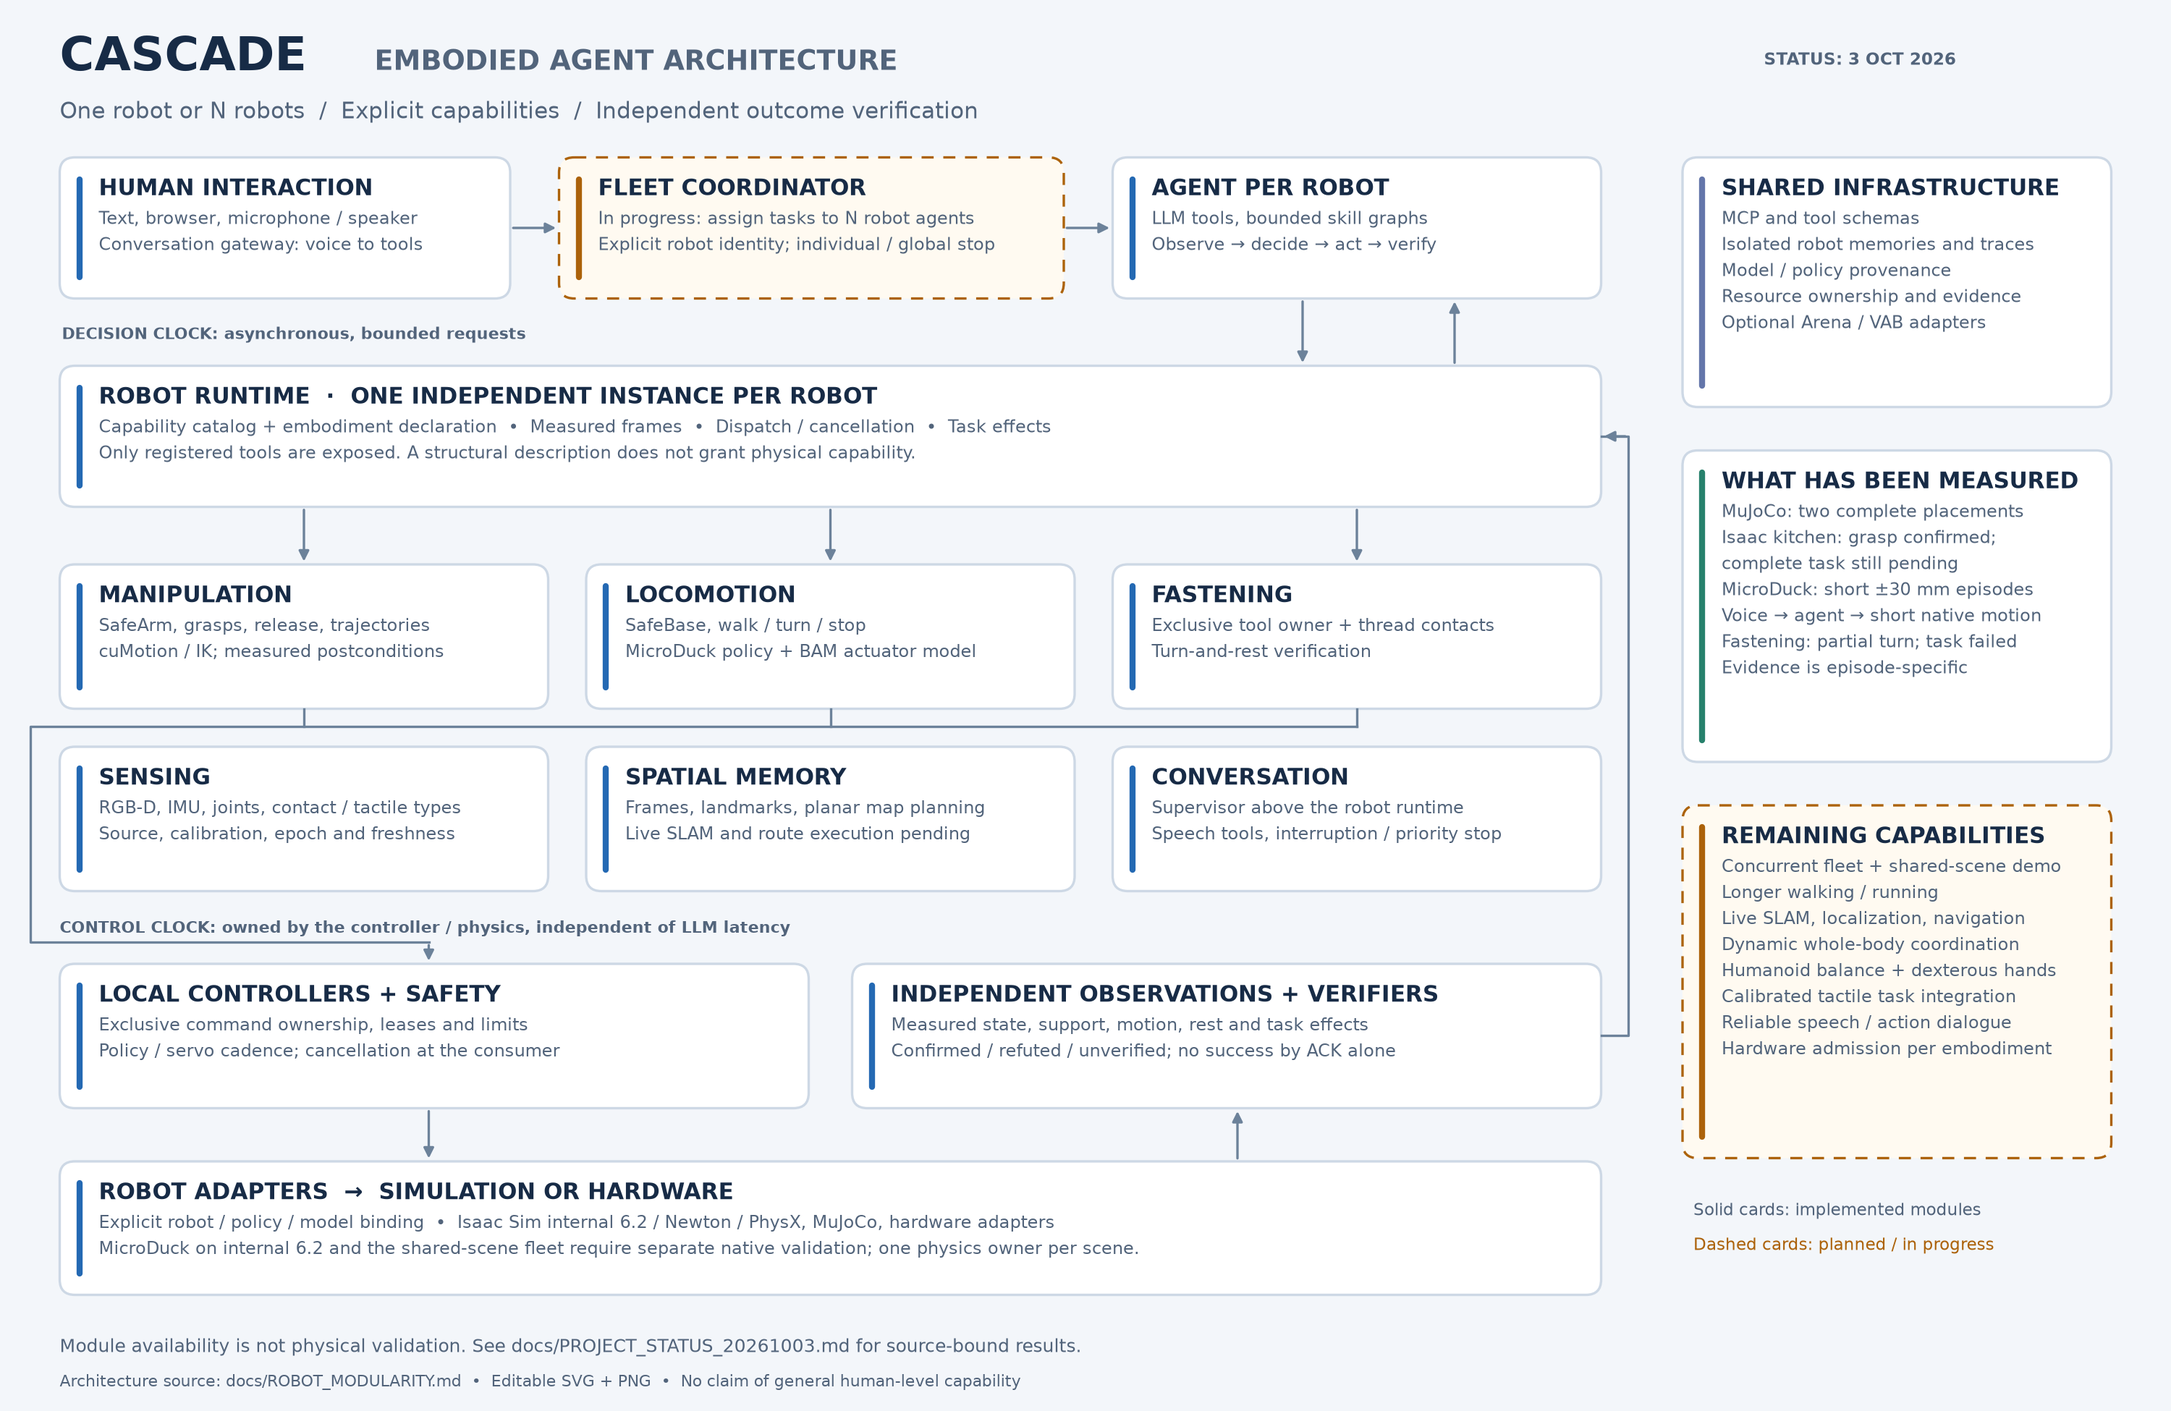
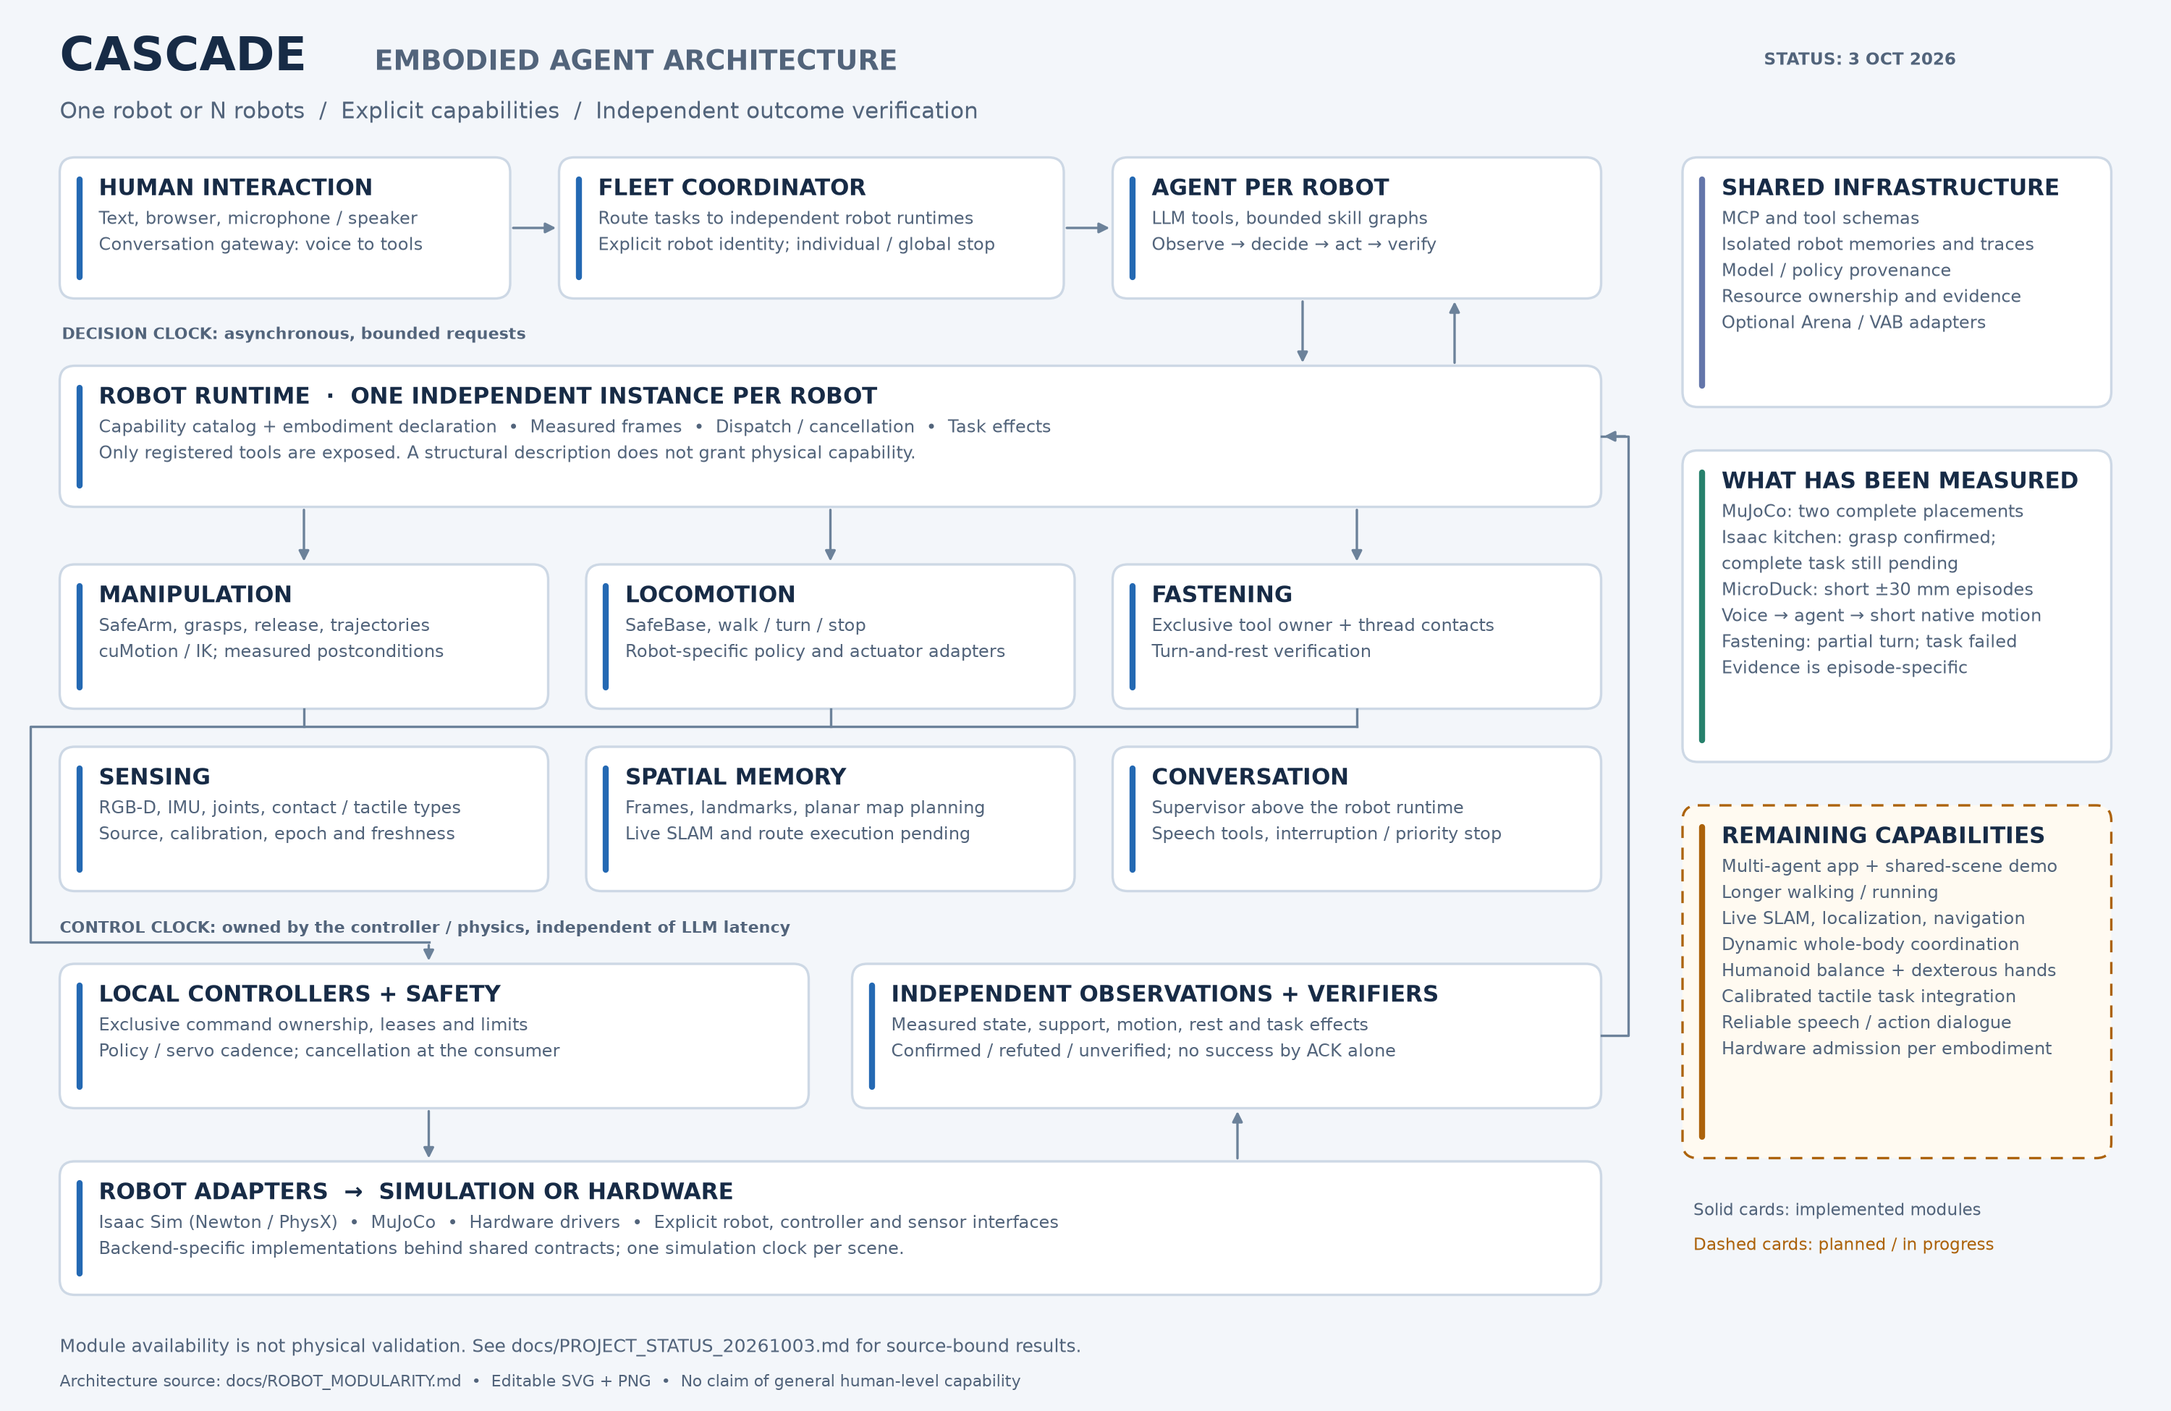
docs: keep robot architecture independent of local builds

Changed region(s): [[0.031, 0.8615, 0.496, 0.8923], [0.248, 0.1231, 0.279, 0.2154], [0.341, 0.1538, 0.372, 0.1846]]

diff --git a/docs/PROJECT_STATUS_20261003.md b/docs/PROJECT_STATUS_20261003.md
@@ -6,8 +6,8 @@ an exact model, source and episode; a declaration, passing software test or
 successful simulator startup does not admit a new robot. This index separates
 implemented capabilities, measured results and remaining work. The architecture
 and [SVG / PNG diagram](ROBOT_MODULARITY.md) now distinguish the existing
-single-robot domains from the concurrent fleet being implemented. Current
-software includes source-release Isaac 6.2 detection in
+single-robot domains from fleet coordination and the pending shared scene. Current
+software includes Isaac Sim source-installation detection in
 [PR #109](https://github.com/johnnynunez/cascade/pull/109); source updates do not
 transfer acceptance from earlier physical episodes. The dated source and CI
 records below remain historical evidence, including
@@ -23,31 +23,31 @@ The [1–2 October index](PROJECT_STATUS_20261001.md) preserves earlier history.
 | Locomotion | Optional measured `walk_distance`, cancellation and independent support/rest checks; historical fresh-start ±30 mm episodes passed. | Published candidate profiles have no new model/support admission. The 0.1 m software ceiling is not measured 0.1 m capability or general gait acceptance. |
 | Sensing and spatial memory | Passive, bounded sensor providers; identity/epoch/age checks; observed calibrated RGB-D and retained pixel-to-surface annotations without constructing an arm. | Independent metric XY/general-3D accuracy, moving-camera calibration and per-AOV synchronization. No physical SLAM or `go_to` execution is admitted. |
 | Speech | Browser/media gateway, real speech-provider path, original-intent deadlines, priority stop and bounded observed-result views. One continuous synthetic-input/native-motion recording exists. | That motion video contains no spoken robot reply. General dialogue/action reliability, microphone/speaker hardware and public hosted service remain unvalidated. |
-| Fleet coordination | Named mobile bases and reusable per-robot runtimes exist; concurrent fleet composition is in progress. | Multiple registered bases currently share one active-operation gate. No shared-scene 12-MicroDuck demo has run. |
+| Fleet coordination | Concurrent `FleetRuntime` routes tasks to independent robot runtimes with separate ownership and stop state. | The multi-agent application and native shared scene remain in progress. No shared-scene 12-MicroDuck demo has run. |
 | Structure and whole-body control | Typed embodiment and passive generalized-joint observations; domains expose only registered resources/tools. | Mixed physical mobile manipulation is refused. No admitted humanoid balance, dexterous-hand or generic whole-body controller. |
 | Evaluation | Source-bound VAB and Arena integration/cancellation preflights ran real simulation. | Neither is a completed benchmark task or a predictor of general deployment success. |
 
 
-## Internal Isaac and current follow-up
+## Isaac Sim validation and current follow-up
 
-New local validation uses the internal Isaac source build
-`6.2.0-alpha.19+develop.0.48b2d951.local`, rebuilt after the daily fast-forward
-update. Its eight native Newton substep/graph tests passed. The actual embedded
-Python also passes CASCADE's source-installation check after #109; the managed
-Spark wheel remains pinned to 6.1.0.0. These checks do not validate a kitchen task
-or a MicroDuck policy on the new SDK.
+The selected Isaac Sim installation passed eight native Newton substep/graph
+tests and CASCADE's source-installation check after #109. Deployment
+configuration selects the concrete dependencies; these checks do not validate
+a kitchen task or a MicroDuck policy on that installation.
 
 The first kitchen attempt stopped at the old 6.1-only metadata gate. The second
 passed that gate but blocked in remote asset discovery for an empty YCB list;
 it was cancelled through its owned supervisor before a robot tool action.
 [PR #110](https://github.com/johnnynunez/cascade/pull/110) removes the unused
 lookup and dead object-spawning block without changing the locally authored
-scene. A fresh native retry is pending. The post-release joint-stability fix
-in [PR #107](https://github.com/johnnynunez/cascade/pull/107) also awaits that retry.
+scene. The subsequent native retry confirmed grasp but reached the unchanged
+300-second deadline during release/retreat. Complete placement, rest and home
+remain unverified, including the post-release joint-stability behavior from
+[PR #107](https://github.com/johnnynunez/cascade/pull/107).
 
-MicroDuck's BAM, support extraction and graph guards bind an earlier Newton
-recipe. The internal 1.6.1rc1 recipe needs explicit compatibility checks and a
-single-robot native episode before shared-scene fleet validation. No model or
+MicroDuck's BAM, support extraction and graph guards bind an explicit Newton
+configuration. Compatibility checks are implemented; a single-robot native
+episode is still required before shared-scene fleet validation. No model or
 source hash is automatically treated as physically admitted.
 
 ## Published software corrections

diff --git a/docs/ROBOT_MODULARITY.md b/docs/ROBOT_MODULARITY.md
@@ -18,6 +18,12 @@ domains actually implement. Perception, locomotion, manipulation and tactile
 measurements can therefore evolve independently while retaining the existing
 runtime, MCP, traces and memory.
 
+The architecture is independent of a robot model or simulator release. Isaac
+Sim, MuJoCo and hardware drivers implement backend-specific adapters behind
+shared contracts. MicroDuck is one embodiment; its policy and actuator model
+do not define locomotion for every robot. Dependency versions and build
+identities belong to deployment configuration and validation records.
+
 [Architecture image (SVG)](assets/architecture.svg) · [PNG](assets/architecture.png)
 
 ```mermaid
@@ -27,8 +33,8 @@ flowchart TD
   Graph[Bounded skill graph] --> Runtime
   MCP --> Runtime[RobotRuntime: one robot's dispatch and cancellation]
   Conversation --> Runtime
-  MCP -. proposed multi-robot routing .-> Fleet[Fleet coordinator: pending]
-  Fleet -. independent robot runtimes .-> Runtime
+  MCP --> Fleet[FleetRuntime: multi-robot routing]
+  Fleet --> Runtime
   Structure[Embodiment declaration and resource catalog] --> Runtime
   Runtime --> Arm[Manipulation]
   Runtime --> Base[Locomotion]
@@ -50,8 +56,8 @@ flowchart TD
 ```
 
 Solid arrows describe existing interfaces, not admission of every combination.
-The fleet layer is proposed; the native MicroDuck bridge currently owns one
-robot. Twelve independent agents require isolated runtime contexts above a
+The fleet runtime routes concurrent tasks to isolated robot runtimes; the
+native MicroDuck bridge currently owns one robot. Twelve native agents need a
 shared scene owner: read one physical step, evaluate each robot's policy/BAM,
 perform one scene solve, then publish observations bound to each robot. Calling
 twelve current steppers would advance the shared scene twelve times. Per-robot
@@ -69,7 +75,7 @@ There is no measured twelve-robot episode or real-time performance guarantee.
 | `control/microduck_policy.py`, `sim/microduck_stepper.py` | Pinned ONNX contract and physics-clock policy application | Robot-specific implementation; no generic humanoid policy loader or second writer to head joints |
 | `robotics/graph.py` | Immutable bounded DAG of registered skills, outcome and data edges | No graph-generated code, online self-editing or automatic stop reset |
 | `eval/vab.py`, `eval/arena.py`, `eval/trials.py` | Optional external API adapters and bound independent verdicts | Upstream success alone does not grant physical admission |
-| Fleet coordinator — proposed | Route agent tasks to independent robot runtimes, with per-robot and global stop | Software coordination and shared-scene physics both require implementation and validation |
+| `robotics/fleet.py` | Concurrent task routing to independent robot runtimes, with per-robot and global stop | A multi-agent application and shared-scene physics still require implementation and native validation |
 
 ## Capability boundaries
 
@@ -82,7 +88,7 @@ There is no measured twelve-robot episode or real-time performance guarantee.
 | Perceive and remember space | Passive sensors, measured-frame contracts and retained RGB-D surface annotations | Physical SLAM/localization, metric reconstruction admission and execution of planned routes |
 | Describe different bodies | Fixed/floating roots, links, transmissions and typed scalar/generalized joint observations | Drivers and control mappings for each mechanism; dynamic whole-body control |
 | Sense touch | Contact, estimated-force and tactile-image contracts | Calibrated tactile device drivers and task-specific tactile verification |
-| Coordinate twelve robots | Per-robot composition is available; fleet and shared native scene are proposed | Concurrent routing, independent ownership/state, collision interaction and measured fleet stop/reset |
+| Coordinate twelve robots | Concurrent fleet runtime with independent robot identities, ownership and stop state | Multi-agent application, shared native scene, collision interaction and measured fleet stop/reset |
 
 `ResourceDescriptor.admission` is declared metadata (for example `unvalidated`
 or `software_only`), not an automatic certificate state

diff --git a/docs/ARCHITECTURE.md b/docs/ARCHITECTURE.md
@@ -5,9 +5,14 @@ show the opt-in `RobotRuntime`: manipulation, locomotion, fastening, passive
 sensing and read-only spatial domains behind explicit resource contracts.
 MCP and bounded skill graphs dispatch registered tools; the optional
 [conversation supervisor](CONVERSATION.md) adds speech without owning joints.
-The existing arm/mobile entrypoints remain available. A fleet coordinator above
-separate robot runtimes is proposed; this repository has no validated
+The existing arm/mobile entrypoints remain available. `FleetRuntime` coordinates
+separate robot runtimes; this repository has no validated
 twelve-robot scene or shared whole-body controller.
+
+The architecture targets robot and backend interfaces, not a particular build.
+Isaac Sim, MuJoCo and hardware drivers are adapter implementations. Robot
+profiles select capabilities, policies, sensors and limits; deployment guides
+and validation records carry the concrete dependency versions and source pins.
 
 [Embodiment declarations](EMBODIMENT.md) describe links, joints, transmissions
 and sensor attachments. [Measured frame trees](SPATIAL_PROVIDERS.md) separately
@@ -31,25 +36,11 @@ have bounded positive results; general gait, longer paths and later source/model
 compositions require their own validation. The policy advances on completed
 physics solves, with no LLM call in the control loop.
 
-Local integration contracts updated on 2 October 2026: live OVRTX bridge
-snapshots, native cuMotion execution through SafeArm, post-close stability and
-load-preserving shutdown, plus a separate Newton contact assembly experiment.
-The [integration report](MANIPULATION_ASSEMBLY_20261002.md) binds these changes
-to their physical results and software checks. The merged baseline described
-below remains a historical source pin.
-
-Runtime contracts updated on 1 October 2026, including the merged optional OVRTX
-renderer, cuMotion candidate planning, PhysX finger envelope, native host reserve,
-release-opening synchronization, pending-camera publication, retained NV carry
-attachment, explicit MCP GPU selection, Isaac verifier startup readiness and
-localization analysis freshness and bounded detector model/vocabulary reuse.
-The previous command baseline for physical validation is `ff8d58b`; historical
-main `f7a8823` includes bridge profiling from PR #62 and the profile 09 report
-from PR #63. The separate combined candidate also includes independent frame
-encoding and release-open stability. See the
-[current source and acceptance index](PROJECT_STATUS_20261003.md) for merged changes,
-software validation and physical runs. Counts are derived at the
-end of this document; dated benchmark measurements retain their original scope.
+See the [capability and acceptance index](PROJECT_STATUS_20261003.md) for merged
+changes, software validation and physical runs, and the
+[integration report](MANIPULATION_ASSEMBLY_20261002.md) for earlier experiments.
+Counts are derived at the end of this document; dated benchmark measurements
+retain their original scope.
 Read this after the README and before `AGENTS.md`.
 
 The optional [cuMotion planner](CUMOTION.md) retains its candidate API/CLI and
@@ -589,9 +580,9 @@ G1/H1 in Isaac Sim first -- is written up in
 ## Launch and hosts
 
 Spark distribution starts at `scripts/bootstrap.sh` → `scripts/install.sh`:
-Linux DGX Spark is the default, with explicit EULA acceptance, pinned Isaac
-Sim **6.1.0.0**, PhysX CUDA, real GraspGen-X, Qwen3.8-27B Q4 with vision,
-and a checkout-local OpenClaw 2026.9.3 CLI.
+Linux DGX Spark is the reference deployment, with explicit EULA acceptance,
+Isaac Sim, PhysX CUDA, GraspGen-X, a local vision-language model and OpenClaw.
+Concrete versions are specified in the [deployment guide](DGX_SPARK_SETUP.md).
 `.venv`, `.isaacsim` and `.graspgenx` isolate incompatible Python dependencies;
 `.llama.cpp` runs the local brain, and `cascade-demo` isolates the attendee
 host profile. The installer does not replace drivers. Required learned grasps

diff --git a/docs/MICRODUCK.md b/docs/MICRODUCK.md
@@ -105,21 +105,13 @@ receipt, every physical step, actual policy inputs/outputs and discarded
 inferences, and images with episode/step timestamps. Check process exit and
 owned-resource teardown separately from the receipt. Keep failed episodes.
 
-For the internal Isaac build `48b2d951919bbb7330de3c2aad54e15369fa0183`,
-`--sdk-recipe isaac62_48b2d951` explicitly admits Newton `1.6.1rc1` using the
-release VERSION and six fixed source hashes in `sim/microduck_sdk.py`. The
-default still requires stable Newton; other prereleases and changed sources
-are refused. Offline admission reads files only, and initialization rechecks
-the modules actually imported. The recipe and solver outputs enter the
-effective model identity; the internal extension folder is explicit.
-
-The reviewed solver delta adds a rejection for disabled sensor outputs;
-the stage delta makes contact forces configurable and preserves `state_0`
-across substeps and graph replay. This recipe explicitly requests contact
-forces, disables incoming-joint-wrench output, and retains one substep and
-the existing policy, BAM parameters and safety limits. CPU admission tests
-and upstream substep tests do not establish MicroDuck balance, support or
-locomotion on this SDK: a new single-robot native episode remains required.
+Isaac Sim compatibility is selected explicitly with `--sdk-recipe`; the
+supported dependency versions and source checks live in
+[`sim/microduck_sdk.py`](../src/cascade/sim/microduck_sdk.py). Offline checks
+read files only, and initialization rechecks the modules actually imported.
+The selected dependencies and solver outputs enter the effective model
+identity. A supported installation does not establish balance or locomotion:
+each new combination still requires its own single-robot native validation.
 
 ## Remaining admission work
 

diff --git a/README.md b/README.md
@@ -91,7 +91,7 @@ physical thread and seating evidence using a mounted hex socket and a fixed
 bolt fixture. The ordinary `turn_screw` skill still reports physical tightening
 as unverified; its commanded wrist travel is not a thread measurement.
 
-[![CASCADE modular architecture: implemented modules and proposed fleet layer](docs/assets/architecture.svg)](docs/ROBOT_MODULARITY.md)
+[![CASCADE modular architecture: robot runtimes, fleet coordination and backend adapters](docs/assets/architecture.svg)](docs/ROBOT_MODULARITY.md)
 
 [Download PNG](docs/assets/architecture.png). Dashed boxes mark work still in progress.
 
